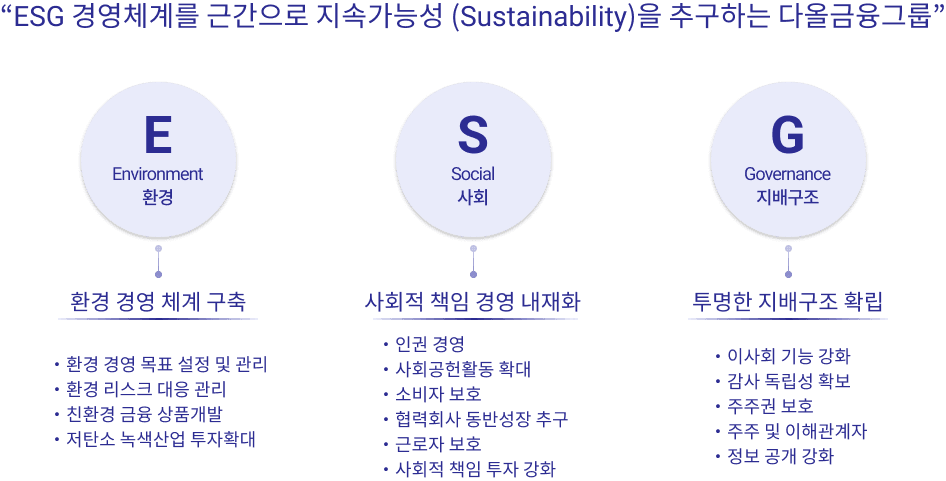
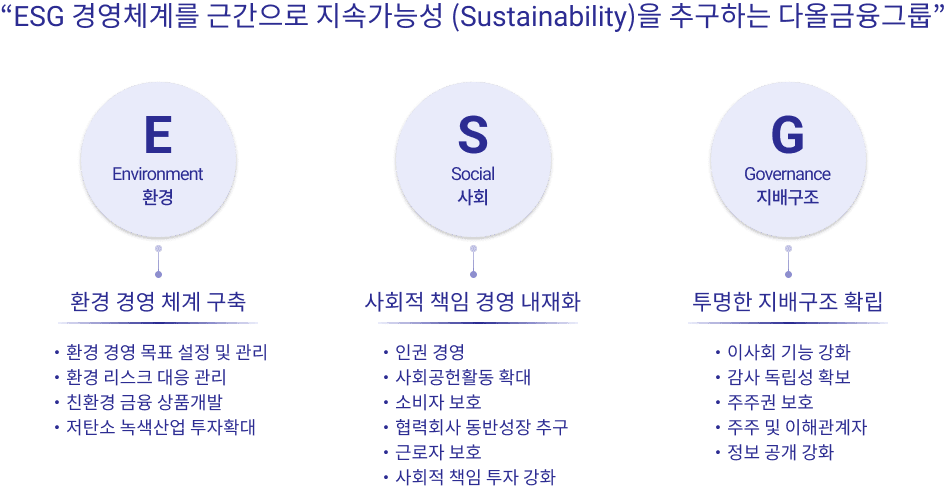
ci 변경 작업 : info 상단 소개 문구 수정, ESG 모바일 추가 / pc 수정

diff --git a/home/ktbnetwork/www/static/mobile/kr/css/m_contents.css b/home/ktbnetwork/www/static/mobile/kr/css/m_contents.css
@@ -126,6 +126,17 @@ header.headFixed ~ .container .pageTit:after{display:none}
 .opinionTxt {padding-top:25px;font-size:13px;color:#737373}
 .opinionTxt em {display:block;padding-top:15px;color:#111}
 
+/* ESG */
+.esg {padding:35px 0 0;font-weight:500;color:#000;}
+.esg h3 {margin-top:57px;font-size:22px;line-height:28px;}
+.esg h3:nth-of-type(1) {margin-top:0;}
+.esg .text {margin-top:20px;font-size:15px;font-weight:400;line-height:21px;}
+.esg .listRule {margin-top:35px;}
+.esg .listRule dt {margin-top:35px;font-size:17px;line-height:23px;}
+.esg .listRule dt:first-child {margin-top:0;}
+.esg .listRule dd {margin-top:20px;font-size:15px;font-weight:400;line-height:21px;}
+.esg .imgArea {margin-top:35px;}
+
 /* contact */
 .contact .tglList {border-bottom:1px solid #e0e0e0}
 .contactArea .addr{margin-bottom:20px}

diff --git a/home/ktbnetwork/www/static/home/kr/css/p_contents.css b/home/ktbnetwork/www/static/home/kr/css/p_contents.css
@@ -185,13 +185,13 @@ dl.noticeBox .tblV tbody th{vertical-align:middle}
 
 /* ESG */
 .esgGroup {font-weight:500;color:#000;}
-.esgGroup h3 {margin-top:80px;font-size:22px;line-height:32px;}
+.esgGroup h3 {margin-top:72px;font-size:22px;line-height:32px;}
 .esgGroup h3:first-child {margin-top:0;}
 .esgGroup .text {margin-top:24px;font-size:15px;font-weight:400;line-height:25px;}
 .esgGroup .listRule {margin-top:50px;}
 .esgGroup .listRule dt {margin-top:24px;font-size:18px;color:#2c2c92;line-height:28px;}
 .esgGroup .listRule dt:first-child {margin-top:0;}
-.esgGroup .listRule dd {margin-top:18px;font-size:15px;line-height:25px;}
+.esgGroup .listRule dd {margin-top:24px;font-size:15px;font-weight:400;line-height:25px;}
 .esgGroup .imgArea {margin-top:35px;}
 
 /* About KTB Group */
